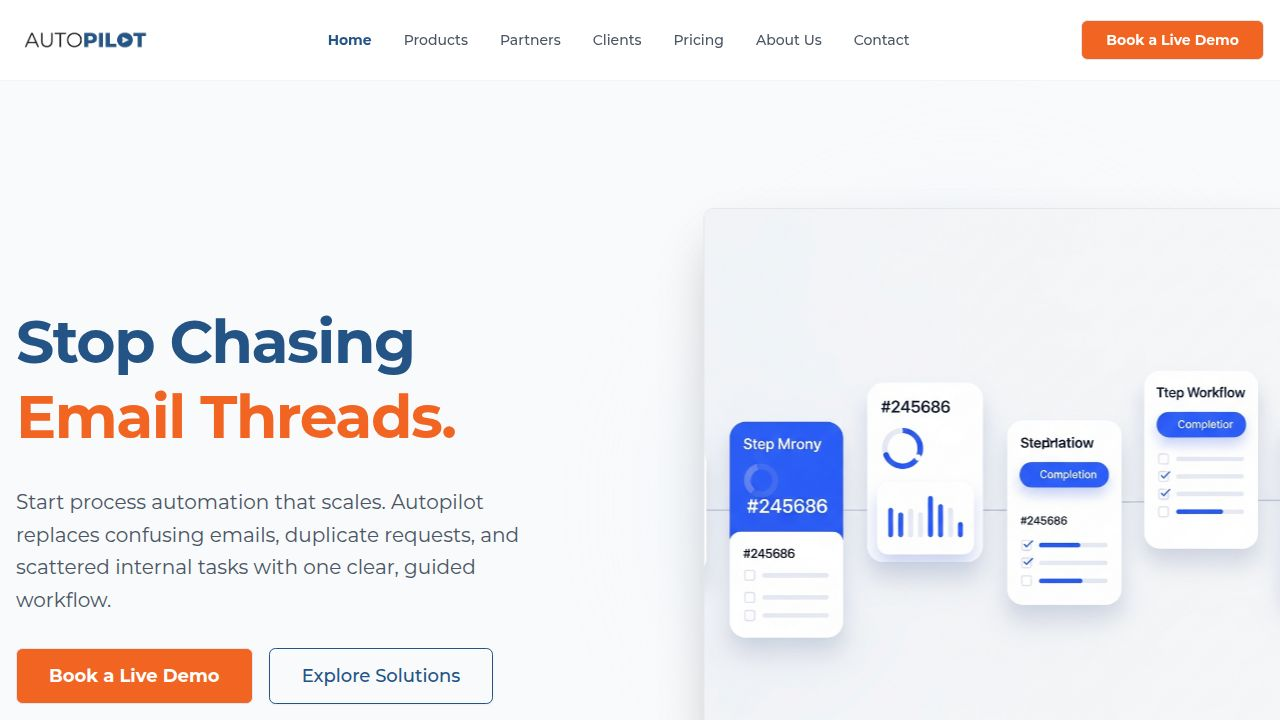
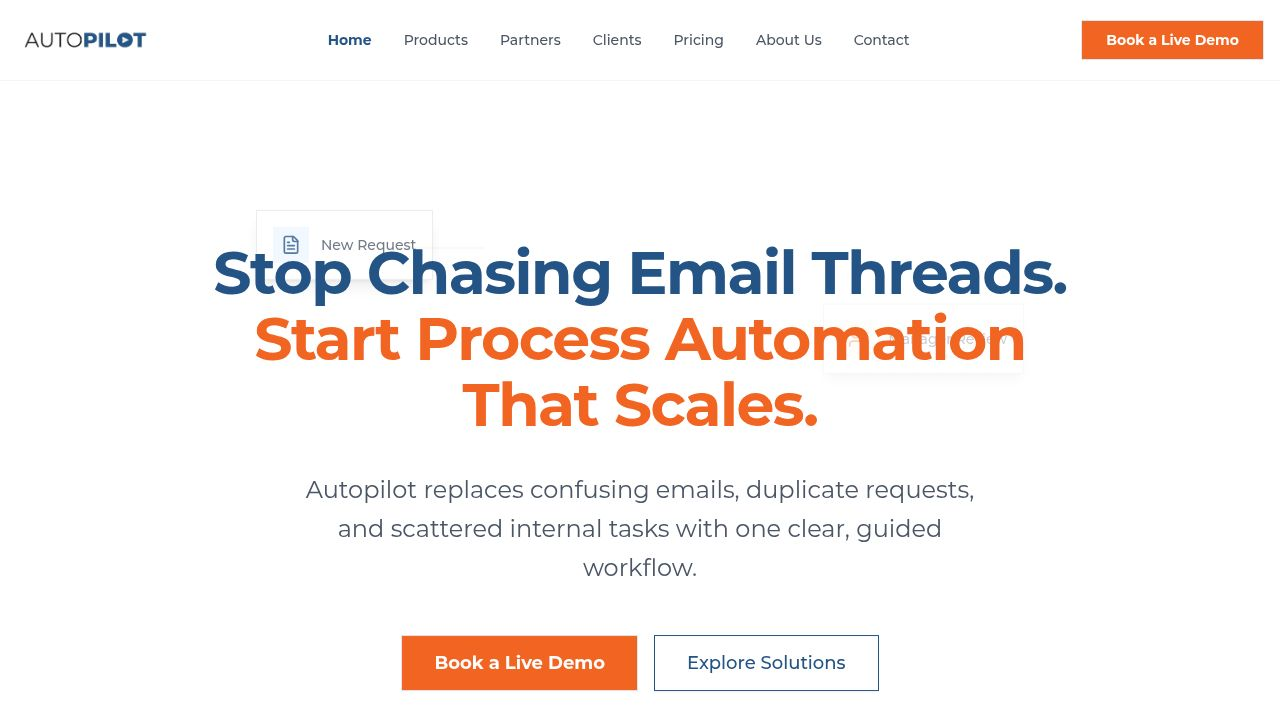
Update the website's hero section with a new workflow-focused design
Replace the hero section image with an animated abstract workflow background and update the hero text content.

Replit-Commit-Author: Agent
Replit-Commit-Session-Id: 16a7aed4-3d65-4c24-93bf-b67b6d76495a
Replit-Commit-Checkpoint-Type: full_checkpoint
Replit-Commit-Event-Id: 2a54144b-596e-4a59-8f97-eca4149c6cf2
Replit-Commit-Screenshot-Url: https://storage.googleapis.com/screenshot-production-us-central1/aca7a7d1-d848-433e-8ce3-e55676169eb2/16a7aed4-3d65-4c24-93bf-b67b6d76495a/x6ANdWm
Replit-Helium-Checkpoint-Created: true

Changed region(s): [[0.0, 0.3361, 1.0, 1.0], [0.0, 0.8556, 0.5, 0.9778], [0.0, 0.825, 0.0938, 0.8556]]

diff --git a/client/src/pages/home.tsx b/client/src/pages/home.tsx
@@ -1,52 +1,118 @@
 import Section from "@/components/layout/Section";
 import { Button } from "@/components/ui/button";
 import { Card, CardContent, CardFooter, CardHeader, CardTitle, CardDescription } from "@/components/ui/card";
-import { ArrowRight, CheckCircle, Clock, Shield, Users } from "lucide-react";
-import DashboardImage from "@assets/generated_images/saas_dashboard_workflow_interface.png";
+import { ArrowRight, CheckCircle, Clock, Shield, Users, FileText, UserCheck, Send, Layers } from "lucide-react";
 import LogoApprovals from "@assets/Autopilot_Logo_Approvals_-_Primary_1767782851207.png";
 import LogoOnboarding from "@assets/Autopilot_Logo_Onboarding_-_Primary_1767782851208.png";
 import { Link } from "wouter";
+import { motion } from "framer-motion";
 
 export default function Home() {
   return (
     <div className="flex flex-col">
       {/* Hero Section */}
-      <section className="relative pt-20 pb-32 md:pt-32 md:pb-48 bg-gray-50 overflow-hidden">
-        <div className="container mx-auto px-4 relative z-10">
-          <div className="grid grid-cols-1 lg:grid-cols-2 gap-16 items-center">
-            <div className="space-y-8 animate-in slide-in-from-left duration-700">
-              <h1 className="text-4xl md:text-6xl font-bold leading-tight text-primary">
-                Stop Chasing Email Threads. <br/>
-                <span className="text-accent">Start Process Automation That Scales.</span>
-              </h1>
-              <p className="text-xl text-gray-600 leading-relaxed max-w-lg">
-                Autopilot replaces confusing emails, duplicate requests, and scattered internal tasks with one clear, guided workflow.
-              </p>
-              <div className="flex flex-col sm:flex-row gap-4">
-                <Button size="lg" className="bg-accent hover:bg-accent/90 text-white font-bold h-14 px-8 text-lg">
-                  Book a Live Demo
+      <section className="relative pt-24 pb-32 md:pt-40 md:pb-56 bg-white overflow-hidden">
+        {/* Background Visuals */}
+        <div className="absolute inset-0 z-0 opacity-5 pointer-events-none">
+           {/* Grid Pattern */}
+           <div className="absolute inset-0 bg-[linear-gradient(to_right,#80808012_1px,transparent_1px),linear-gradient(to_bottom,#80808012_1px,transparent_1px)] bg-[size:24px_24px]"></div>
+        </div>
+        
+        {/* Abstract Workflow Elements */}
+        <div className="absolute inset-0 z-0 overflow-hidden pointer-events-none">
+          {/* Node 1 - Request */}
+          <motion.div 
+            initial={{ opacity: 0, y: 20 }}
+            animate={{ opacity: 1, y: 0 }}
+            transition={{ duration: 1, delay: 0.2 }}
+            className="absolute top-[15%] left-[10%] md:left-[20%] p-4 bg-white border border-gray-200 shadow-lg flex items-center gap-3 rounded-none"
+          >
+            <div className="p-2 bg-blue-50 text-primary">
+              <FileText size={20} />
+            </div>
+            <div className="text-sm font-medium text-gray-600">New Request</div>
+          </motion.div>
+
+          {/* Connector 1 */}
+          <motion.div 
+             initial={{ pathLength: 0, opacity: 0 }}
+             animate={{ pathLength: 1, opacity: 0.2 }}
+             transition={{ duration: 1.5, delay: 0.5 }}
+             className="absolute top-[20%] left-[25%] md:left-[30%] w-[100px] h-[2px] bg-gray-400 hidden md:block"
+          />
+
+          {/* Node 2 - Review */}
+          <motion.div 
+            initial={{ opacity: 0, y: 20 }}
+            animate={{ opacity: 1, y: 0 }}
+            transition={{ duration: 1, delay: 0.6 }}
+            className="absolute top-[25%] right-[10%] md:right-[20%] p-4 bg-white border border-gray-200 shadow-lg flex items-center gap-3 rounded-none"
+          >
+            <div className="p-2 bg-orange-50 text-accent">
+              <UserCheck size={20} />
+            </div>
+            <div className="text-sm font-medium text-gray-600">Manager Review</div>
+          </motion.div>
+
+          {/* Node 3 - Process */}
+          <motion.div 
+            initial={{ opacity: 0, y: 20 }}
+            animate={{ opacity: 1, y: 0 }}
+            transition={{ duration: 1, delay: 1 }}
+            className="absolute bottom-[20%] left-[15%] md:left-[25%] p-4 bg-white border border-gray-200 shadow-lg flex items-center gap-3 rounded-none"
+          >
+            <div className="p-2 bg-green-50 text-green-600">
+              <Layers size={20} />
+            </div>
+            <div className="text-sm font-medium text-gray-600">Processing</div>
+          </motion.div>
+
+          {/* Node 4 - Complete */}
+          <motion.div 
+            initial={{ opacity: 0, y: 20 }}
+            animate={{ opacity: 1, y: 0 }}
+            transition={{ duration: 1, delay: 1.4 }}
+            className="absolute bottom-[15%] right-[15%] md:right-[30%] p-4 bg-white border border-gray-200 shadow-lg flex items-center gap-3 rounded-none"
+          >
+             <div className="p-2 bg-blue-50 text-primary">
+              <Send size={20} />
+            </div>
+            <div className="text-sm font-medium text-gray-600">Completed</div>
+          </motion.div>
+        </div>
+
+        <div className="container mx-auto px-4 relative z-10 text-center">
+          <motion.div 
+            initial={{ opacity: 0, y: 20 }}
+            animate={{ opacity: 1, y: 0 }}
+            transition={{ duration: 0.8 }}
+            className="max-w-4xl mx-auto space-y-8"
+          >
+            <h1 className="text-4xl md:text-6xl md:leading-[1.1] font-bold text-primary tracking-tight">
+              Stop Chasing Email Threads. <br className="hidden md:block" />
+              <span className="text-accent">Start Process Automation That Scales.</span>
+            </h1>
+            
+            <p className="text-xl md:text-2xl text-gray-600 leading-relaxed max-w-2xl mx-auto">
+              Autopilot replaces confusing emails, duplicate requests, and scattered internal tasks with one clear, guided workflow.
+            </p>
+
+            <div className="flex flex-col sm:flex-row justify-center gap-4 pt-4">
+              <Button size="lg" className="bg-accent hover:bg-accent/90 text-white font-bold h-14 px-8 text-lg w-full sm:w-auto">
+                Book a Live Demo
+              </Button>
+              <Link href="/products">
+                <Button variant="outline" size="lg" className="h-14 px-8 text-lg border-primary text-primary hover:bg-primary/5 w-full sm:w-auto">
+                  Explore Solutions
                 </Button>
-                <Link href="/products">
-                  <Button variant="outline" size="lg" className="h-14 px-8 text-lg border-primary text-primary hover:bg-primary/5">
-                    Explore Solutions
-                  </Button>
-                </Link>
-              </div>
+              </Link>
             </div>
-            <div className="relative animate-in slide-in-from-right duration-700 delay-200">
-              <div className="absolute -inset-4 bg-gradient-to-r from-blue-100 to-transparent rounded-none blur-3xl opacity-30"></div>
-              <img 
-                src={DashboardImage} 
-                alt="Autopilot Dashboard" 
-                className="relative rounded-none shadow-2xl border border-gray-200 w-full object-cover transform hover:scale-[1.02] transition-transform duration-500"
-              />
-            </div>
-          </div>
+          </motion.div>
         </div>
       </section>
 
       {/* Problem Statement */}
-      <Section background="white">
+      <Section background="gray">
         <div className="max-w-3xl mx-auto text-center space-y-6">
           <h2 className="text-3xl md:text-4xl font-bold">Being Disorganized Looks Unprofessional</h2>
           <p className="text-lg text-gray-600 leading-relaxed">
@@ -61,7 +127,7 @@ export default function Home() {
       </Section>
 
       {/* Products Section */}
-      <Section background="gray">
+      <Section background="white">
         <div className="text-center mb-16">
           <h2 className="text-3xl md:text-4xl font-bold mb-4">Our Products</h2>
           <p className="text-gray-600">Streamline your operations with our dedicated solutions.</p>
@@ -147,7 +213,7 @@ export default function Home() {
       </Section>
 
       {/* Features / Advantage */}
-      <Section background="white">
+      <Section background="gray">
         <div className="grid grid-cols-1 lg:grid-cols-2 gap-16 items-center">
           <div className="space-y-8">
             <div>
@@ -190,10 +256,10 @@ export default function Home() {
             </div>
           </div>
           
-          <div className="bg-gray-100 rounded-none p-8 md:p-12 border border-gray-200 shadow-inner">
+          <div className="bg-white rounded-none p-8 md:p-12 border border-gray-200 shadow-inner">
              {/* Abstract representation of the process */}
              <div className="space-y-6">
-                <div className="bg-white p-4 rounded-none shadow-sm flex items-center justify-between opacity-50">
+                <div className="bg-gray-50 p-4 rounded-none shadow-sm flex items-center justify-between opacity-50">
                    <div className="flex items-center gap-3">
                      <div className="w-8 h-8 rounded-none bg-gray-200"></div>
                      <div className="h-3 w-32 bg-gray-200 rounded-none"></div>
@@ -210,7 +276,7 @@ export default function Home() {
                    </div>
                    <Button size="sm" className="bg-accent text-white h-8">Review</Button>
                 </div>
-                <div className="bg-white p-4 rounded-none shadow-sm flex items-center justify-between opacity-50">
+                <div className="bg-gray-50 p-4 rounded-none shadow-sm flex items-center justify-between opacity-50">
                    <div className="flex items-center gap-3">
                      <div className="w-8 h-8 rounded-none bg-gray-200"></div>
                      <div className="h-3 w-32 bg-gray-200 rounded-none"></div>
